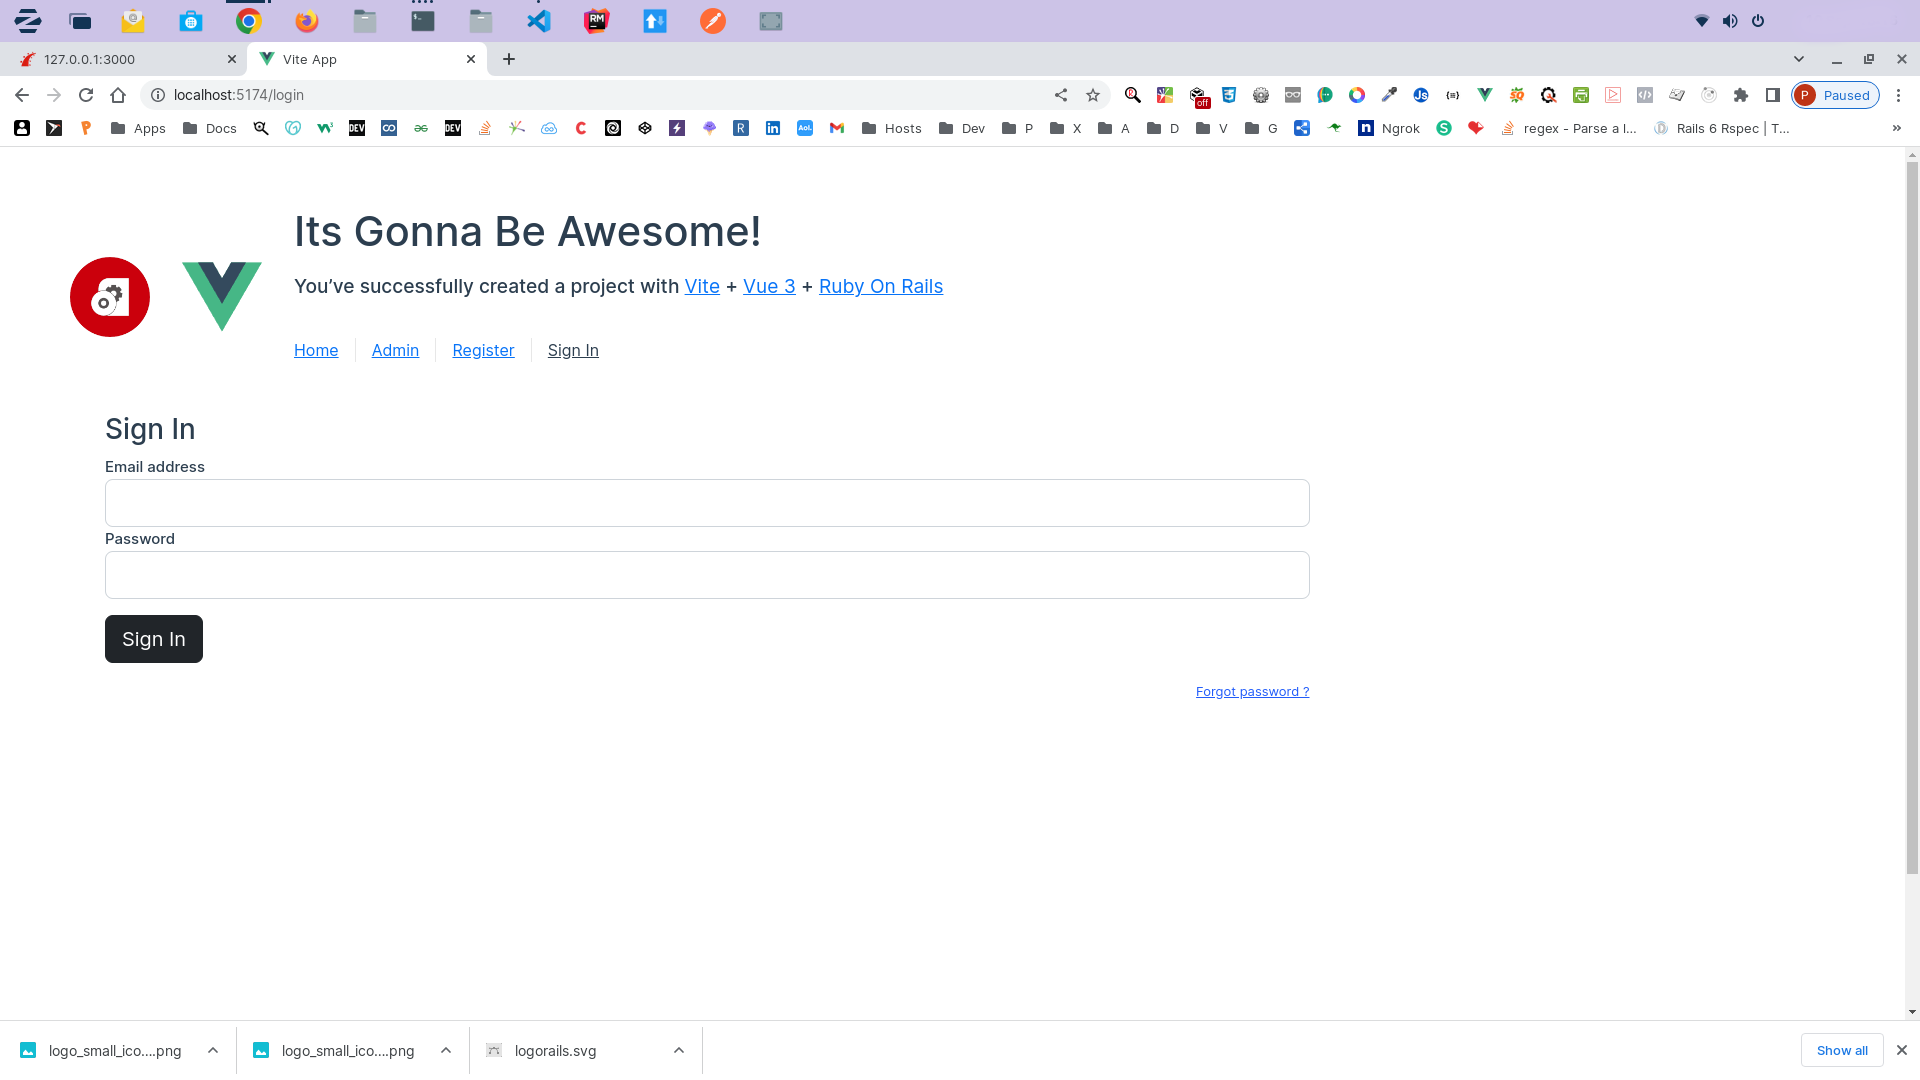
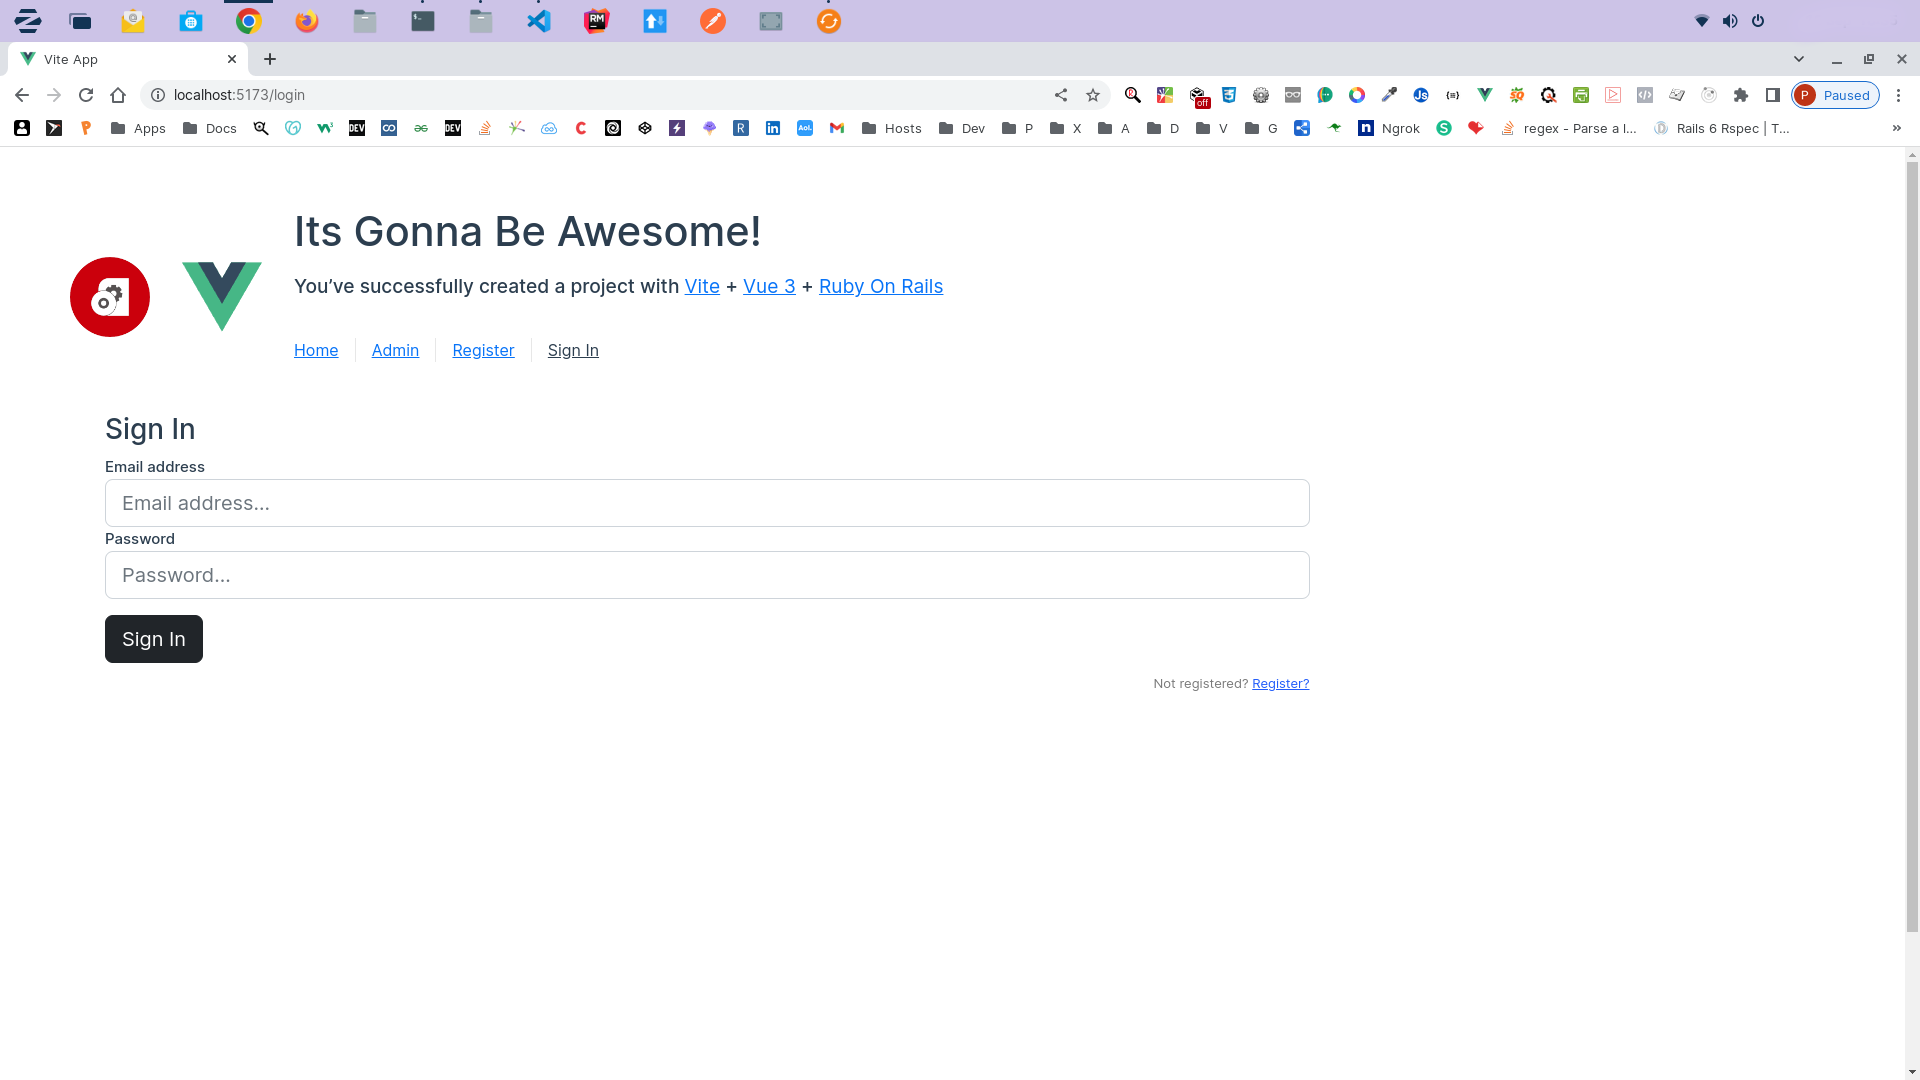
Boilerplate reg & login

diff --git a/vue-front/src/components/Registration.vue b/vue-front/src/components/Registration.vue
@@ -1,27 +1,30 @@
 <template>
-    <div class="vue-tempalte">
-        <form>
+    <div class="registration">
+        <form @submit.prevent="register">
             <h3>Register</h3>
             <div class="form-group">
                 <label>Email address</label>
-                <input type="email" class="form-control form-control-lg" />
+                <input type="email" placeholder="Email address..." v-model="email"
+                    class="form-control form-control-lg" />
             </div>
 
             <div class="form-group">
                 <label>Password</label>
-                <input type="password" class="form-control form-control-lg" />
+                <input type="password" placeholder="Password..." v-model="password"
+                    class="form-control form-control-lg" />
             </div>
 
             <div class="form-group">
                 <label>Password Confirmation</label>
-                <input type="password" class="form-control form-control-lg" />
+                <input type="password_confirmation" placeholder="Password Confirmation..."
+                    v-model="password_confirmation" class="form-control form-control-lg" />
             </div>
 
             <button type="submit" class="btn btn-dark btn-lg btn-block mt-3">Register</button>
 
             <p class="forgot-password text-right">
                 Already registered
-                <router-link :to="{name: 'login'}">sign in?</router-link>
+                <router-link :to="{name: 'login'}">Sign In?</router-link>
             </p>
         </form>
     </div>
@@ -30,7 +33,16 @@
 <script>
 export default {
     data() {
-        return {}
+        return {
+            email: "",
+            password: "",
+            password_confirmation: ""
+        };
+    },
+    methods: {
+        register() {
+            console.log("register");
+        }
     }
 }
 </script>

diff --git a/vue-front/src/components/Login.vue b/vue-front/src/components/Login.vue
@@ -1,22 +1,24 @@
 <template>
     <div class="vue-tempalte">
-        <form>
+        <form @submit.prevent="login">
             <h3>Sign In</h3>
-
             <div class="form-group">
                 <label>Email address</label>
-                <input type="email" class="form-control form-control-lg" />
+                <input type="email" placeholder="Email address..." v-model="email"
+                    class="form-control form-control-lg" />
             </div>
 
             <div class="form-group">
                 <label>Password</label>
-                <input type="password" class="form-control form-control-lg" />
+                <input type="password" placeholder="Password..." v-model="password"
+                    class="form-control form-control-lg" />
             </div>
 
             <button type="submit" class="btn btn-dark btn-lg btn-block mt-3">Sign In</button>
 
-            <p class="forgot-password text-right mt-2 mb-4">
-                <router-link to="/forgot-password">Forgot password ?</router-link>
+            <p class="forgot-password text-right">
+                Not registered?
+                <router-link :to="{name: 'registration'}">Register?</router-link>
             </p>
         </form>
     </div>
@@ -25,7 +27,16 @@
 <script>
 export default {
     data() {
-        return {}
+        return {
+            email: "",
+            password: ""
+        };
+    },
+    methods: {
+        login() {
+            console.log("login");
+        }
     }
 }
+
 </script>
